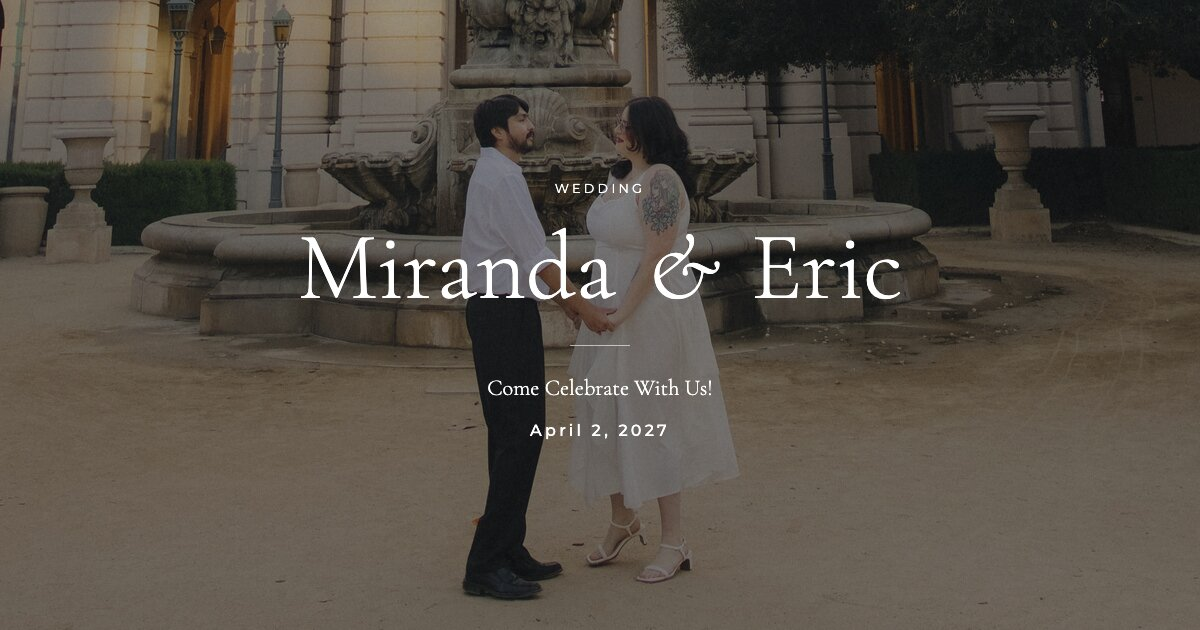
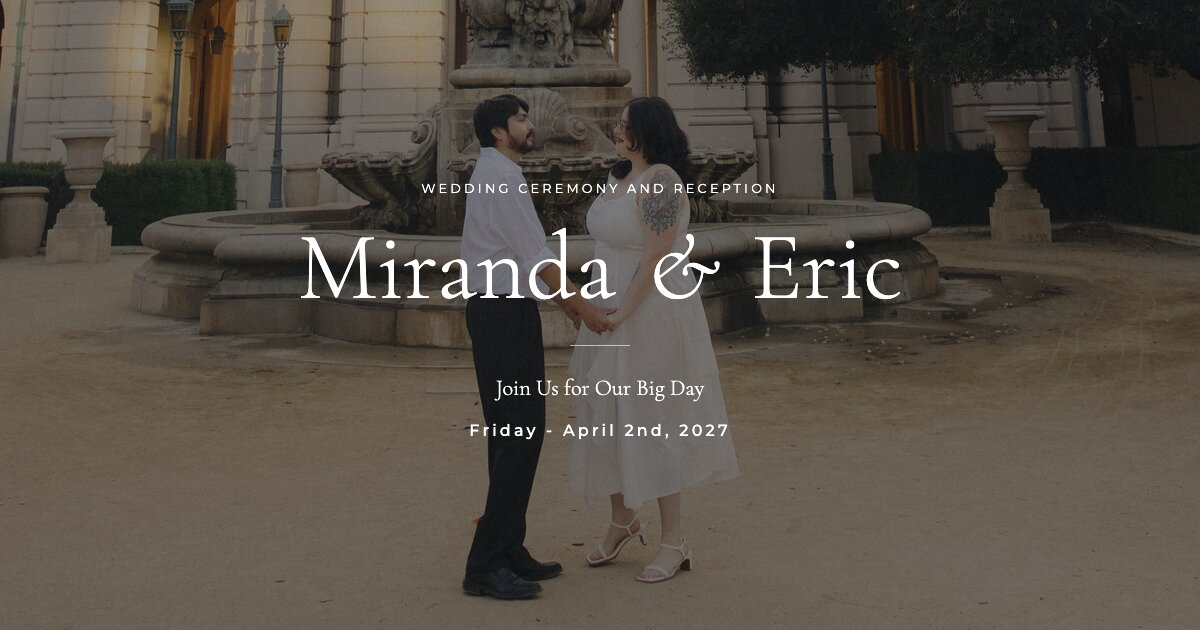
Push updates

diff --git a/index.html b/index.html
@@ -3,7 +3,7 @@
 <head>
   <meta charset="UTF-8">
   <meta name="viewport" content="width=device-width, initial-scale=1.0">
-  <meta name="description" content="Miranda & Eric's Wedding — April 2, 2027.">
+  <meta name="description" content="Miranda & Eric's Wedding Ceremony and Reception — Friday - April 2nd, 2027.">
   <meta name="theme-color" content="#000000">
   <title>Miranda & Eric — Wedding 2027</title>
 
@@ -16,24 +16,24 @@
 
   <!-- Open Graph -->
   <meta property="og:site_name" content="Miranda & Eric">
-  <meta property="og:title" content="Miranda & Eric — Wedding">
-  <meta property="og:description" content="Come celebrate with us! April 2, 2027">
+  <meta property="og:title" content="Miranda & Eric — Wedding Ceremony and Reception">
+  <meta property="og:description" content="Join us for our big day! Friday - April 2nd, 2027">
   <meta property="og:url" content="https://www.mirandaanderic.com/">
   <meta property="og:type" content="website">
   <meta property="og:locale" content="en_US">
-  <meta property="og:image" content="https://www.mirandaanderic.com/img/meta-image-wedding.jpg">
-  <meta property="og:image:secure_url" content="https://www.mirandaanderic.com/img/meta-image-wedding.jpg">
+  <meta property="og:image" content="https://www.mirandaanderic.com/img/meta-image-wedding.jpg?v=2">
+  <meta property="og:image:secure_url" content="https://www.mirandaanderic.com/img/meta-image-wedding.jpg?v=2">
   <meta property="og:image:type" content="image/jpeg">
   <meta property="og:image:width" content="1200">
   <meta property="og:image:height" content="630">
-  <meta property="og:image:alt" content="Miranda & Eric — Wedding, April 2, 2027">
+  <meta property="og:image:alt" content="Miranda & Eric — Wedding Ceremony and Reception, Friday - April 2nd, 2027">
 
   <!-- Twitter Card -->
   <meta name="twitter:card" content="summary_large_image">
-  <meta name="twitter:title" content="Miranda & Eric — Wedding">
-  <meta name="twitter:description" content="Come celebrate with us! April 2, 2027">
-  <meta name="twitter:image" content="https://www.mirandaanderic.com/img/meta-image-wedding.jpg">
-  <meta name="twitter:image:alt" content="Miranda & Eric — Wedding, April 2, 2027">
+  <meta name="twitter:title" content="Miranda & Eric — Wedding Ceremony and Reception">
+  <meta name="twitter:description" content="Join us for our big day! Friday - April 2nd, 2027">
+  <meta name="twitter:image" content="https://www.mirandaanderic.com/img/meta-image-wedding.jpg?v=2">
+  <meta name="twitter:image:alt" content="Miranda & Eric — Wedding Ceremony and Reception, Friday - April 2nd, 2027">
 
   <link rel="stylesheet" href="styles.css">
   <link rel="preconnect" href="https://fonts.googleapis.com">
@@ -62,11 +62,11 @@
   <section class="hero" id="hero">
     <div class="hero-overlay"></div>
     <div class="hero-content">
-      <p class="hero-subtitle fade-in">Wedding</p>
+      <p class="hero-subtitle fade-in">Wedding Ceremony and Reception</p>
       <h1 class="hero-title fade-in">Miranda <span class="ampersand">&</span> Eric</h1>
       <div class="hero-divider fade-in"></div>
-      <p class="hero-tagline fade-in">Come Celebrate With Us!</p>
-      <p class="hero-date fade-in">April 2, 2027</p>
+      <p class="hero-tagline fade-in">Join Us for Our Big Day</p>
+      <p class="hero-date fade-in">Friday - April 2nd, 2027</p>
       <!--
       <div class="countdown fade-in" id="countdown">
         <div class="countdown-item">

diff --git a/styles.css b/styles.css
@@ -194,6 +194,7 @@ h1, h2, h3 {
   font-weight: 400;
   letter-spacing: 0.25em;
   text-transform: uppercase;
+  text-wrap: balance;
   color: var(--white);
   margin-bottom: 16px;
   opacity: 0.9;
